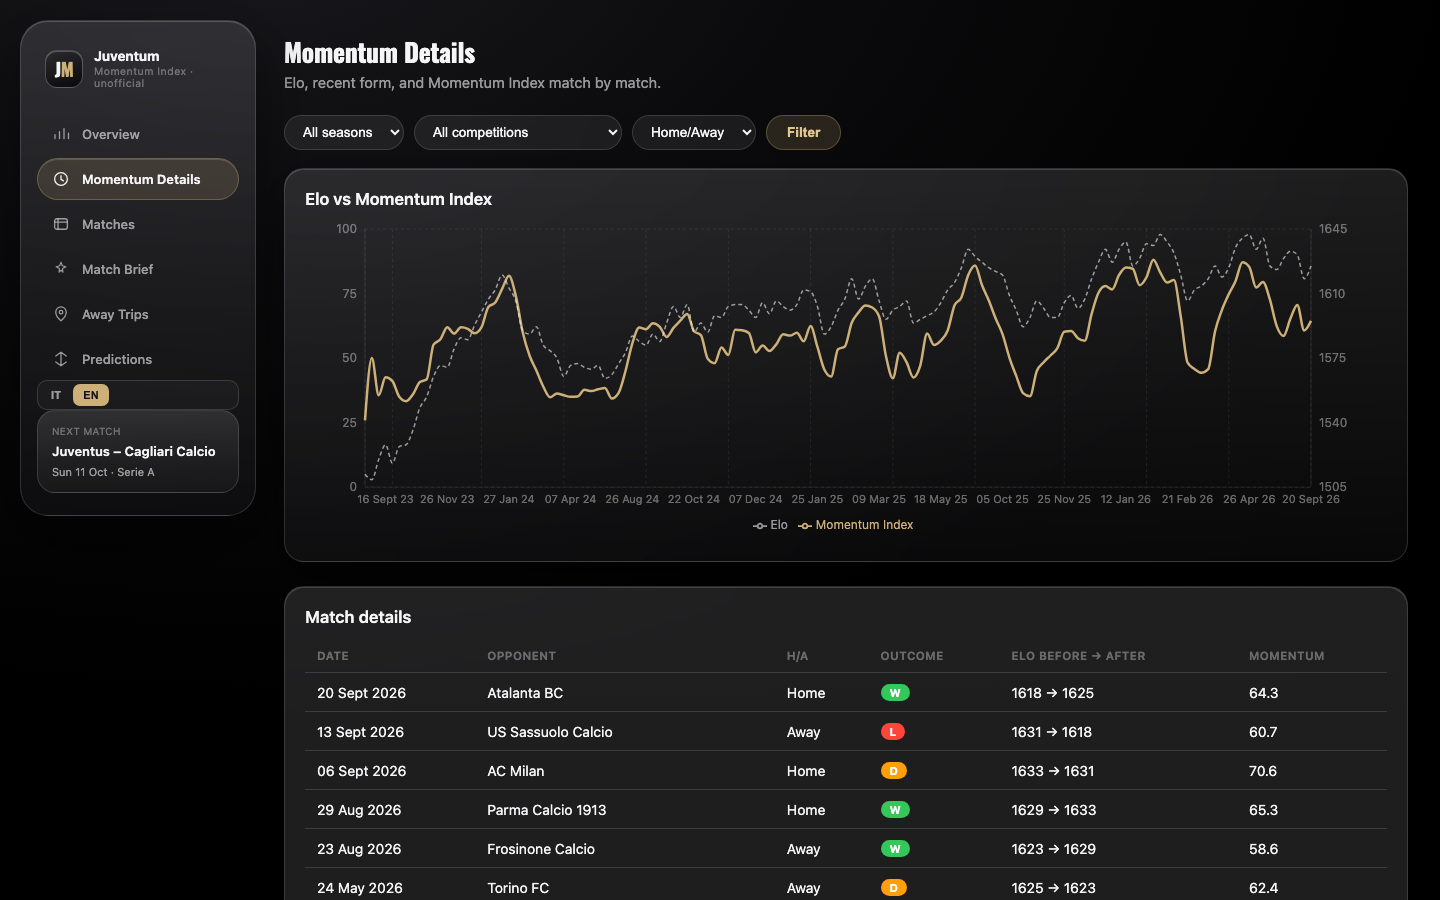
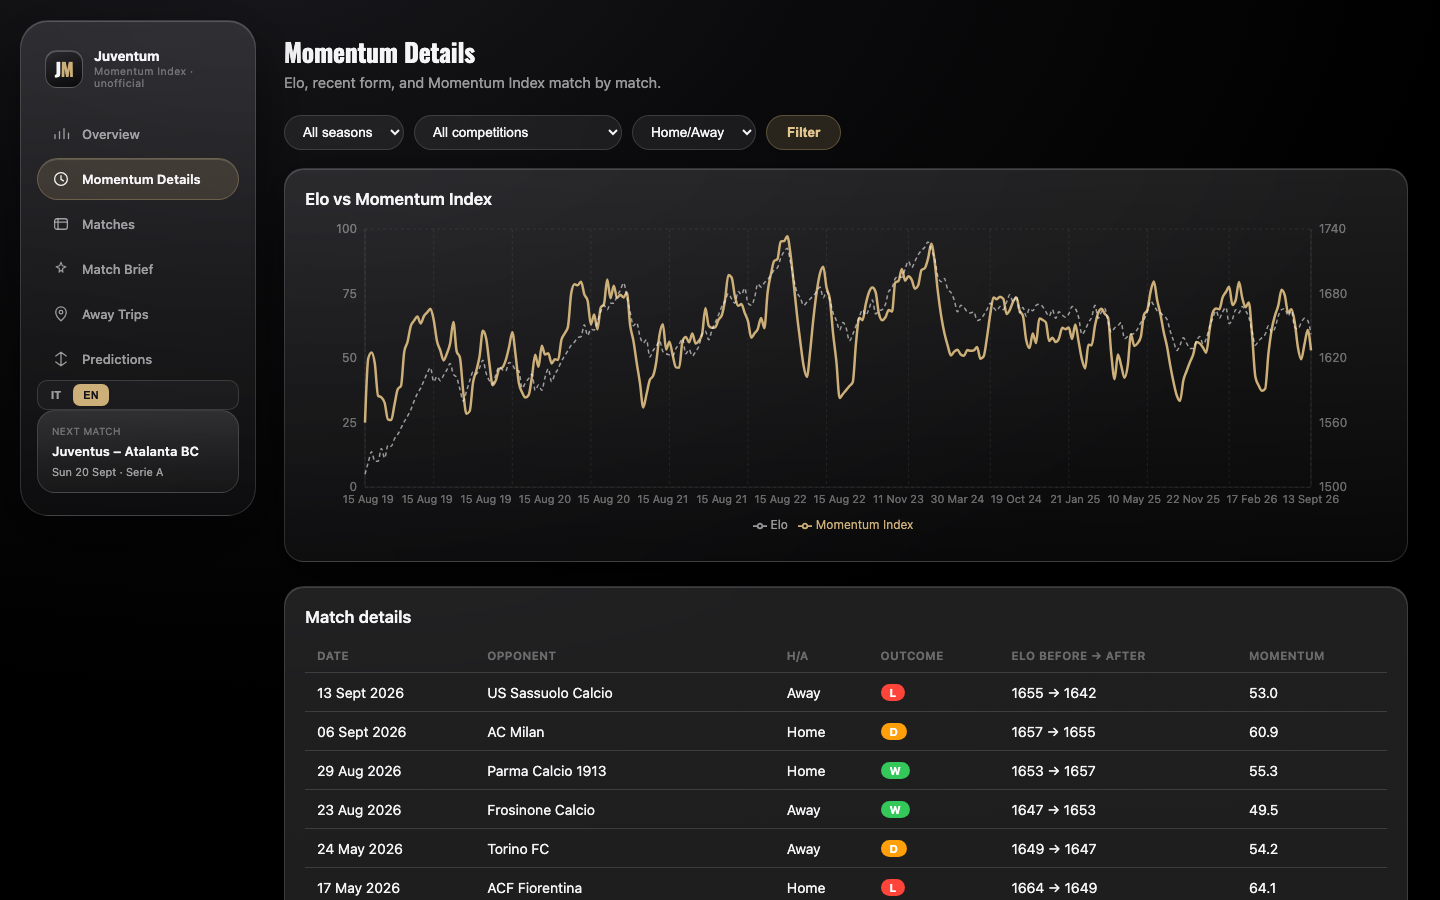
feat: football-data.org attribution, crests off by default
football-data.org's terms require the attribution "Football data
provided by the Football-Data.org API" and do not license club logos.
The footer now carries the attribution; crests are shown only with
NEXT_PUBLIC_SHOW_CRESTS=true. Screenshots retaken without crests.

diff --git a/frontend/lib/i18n/dictionaries.ts b/frontend/lib/i18n/dictionaries.ts
@@ -192,7 +192,7 @@ export const dictionaries: Record<Locale, Dictionary> = {
       noUpcoming: "Nessuna partita in programma",
     },
     footer:
-      "Dati indicativi da football-data.org (fallback Wikipedia). Progetto personale, non affiliato alla Juventus FC.",
+      "Football data provided by the Football-Data.org API (fallback Wikipedia). Dati indicativi. Progetto personale, non affiliato alla Juventus FC.",
     footerUpdatedAt: (time) => `Dati aggiornati alle ${time}`,
     footerUpdatedAtOn: (date, time) => `Dati aggiornati il ${date} alle ${time}`,
     common: {
@@ -366,7 +366,7 @@ export const dictionaries: Record<Locale, Dictionary> = {
       noUpcoming: "No match scheduled",
     },
     footer:
-      "Indicative data from football-data.org (Wikipedia fallback). Personal project, not affiliated with Juventus FC.",
+      "Football data provided by the Football-Data.org API (Wikipedia fallback). Indicative data. Personal project, not affiliated with Juventus FC.",
     footerUpdatedAt: (time) => `Data last updated at ${time}`,
     footerUpdatedAtOn: (date, time) => `Data last updated on ${date} at ${time}`,
     common: {

diff --git a/frontend/components/TeamCrest.tsx b/frontend/components/TeamCrest.tsx
@@ -1,5 +1,9 @@
+// Club crests are trademarks of the clubs, and football-data.org does not license them: whoever
+// deploys the app must obtain the rights. They are therefore off unless explicitly enabled.
+const SHOW_CRESTS = process.env.NEXT_PUBLIC_SHOW_CRESTS === "true";
+
 export function TeamCrest({ url, name, size = 18 }: { url: string | null; name: string; size?: number }) {
-  if (!url) return null;
+  if (!url || !SHOW_CRESTS) return null;
 
   return (
     // eslint-disable-next-line @next/next/no-img-element -- external, per-team crest URLs; not worth next/image's remote-pattern config for a small static set

diff --git a/README.it.md b/README.it.md
@@ -187,6 +187,11 @@ modello con il risultato reale. La pagina "Le mie previsioni"
 
 - [football-data.org](https://www.football-data.org/) (free tier, 10
   richieste/minuto) — fonte primaria per Serie A e Champions League.
+  I termini ([pagina about](https://www.football-data.org/about)) chiedono
+  l'attribuzione "Football data provided by the Football-Data.org API", che
+  compare nel footer dell'app, e lasciano all'utente i diritti sugli stemmi.
+  Gli stemmi sono quindi nascosti di default: `NEXT_PUBLIC_SHOW_CRESTS=true`
+  li mostra, da usare solo se si hanno quei diritti.
 - Wikipedia (pagine "20XX-YY Serie A") — fallback automatico solo per Serie A,
   usato se l'API fallisce o esaurisce la quota per una stagione.
 - [Nominatim](https://nominatim.org/) (OpenStreetMap) — geocoding gratuito
